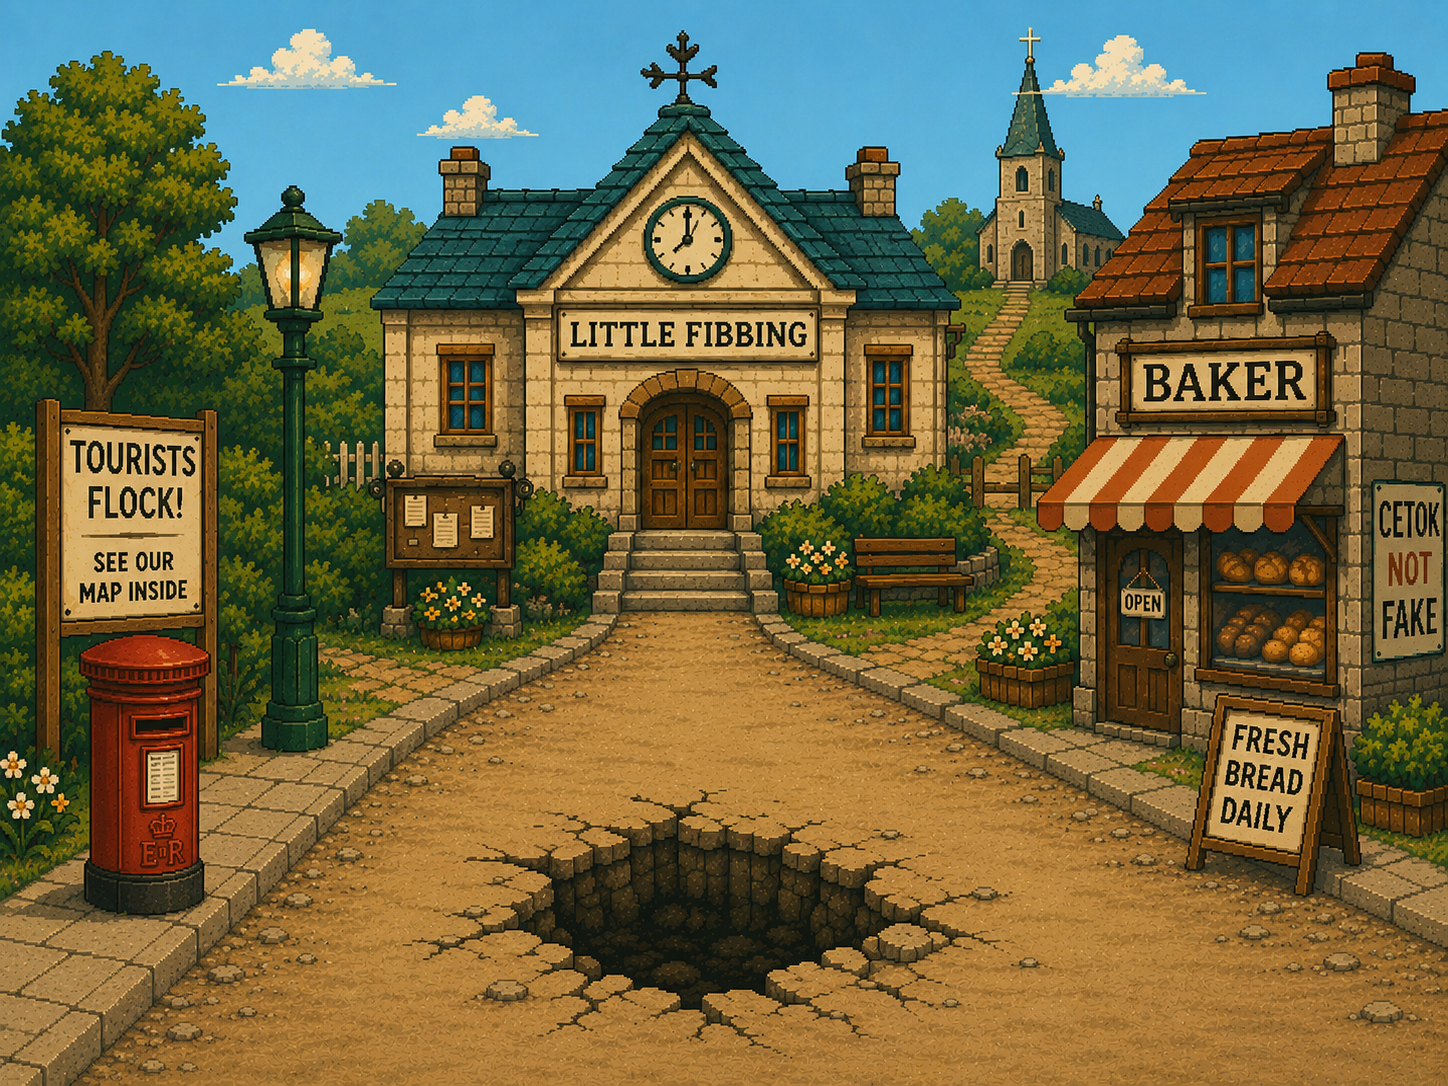
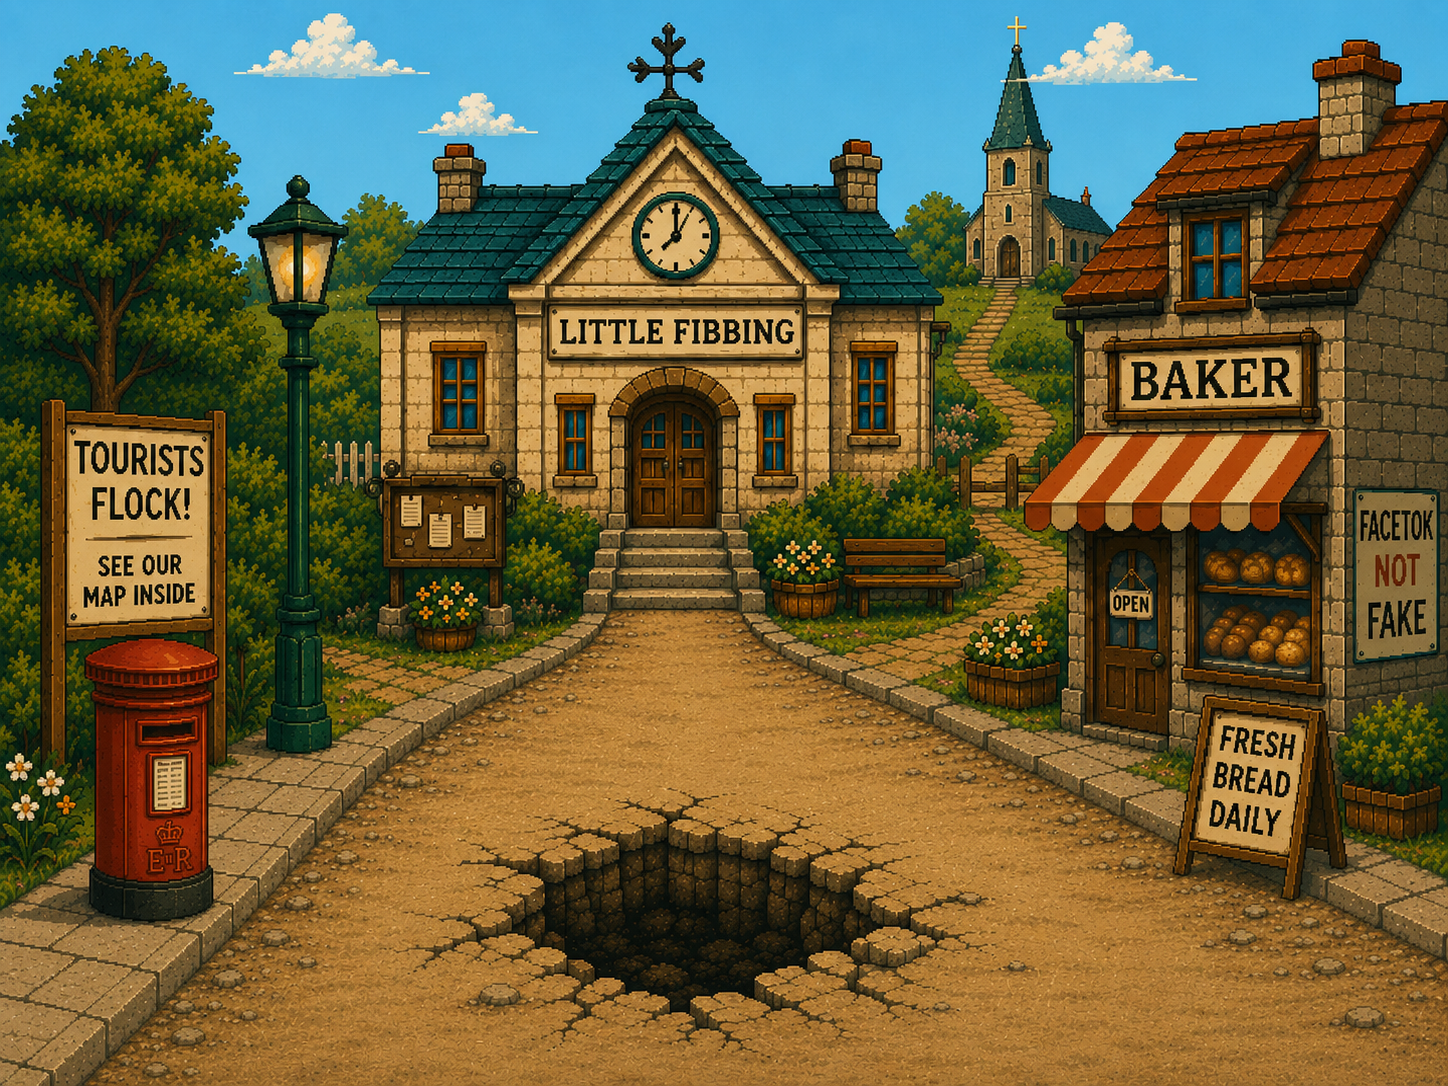
Little Fibbing: fix garbled FACETOK sign + shorten over-long headlines
- Village hub background regenerated with legible "FACETOK / NOT FAKE" signage
  (was garbled "CETOK NOT FAKE", a generation artifact in the build).
- Shorten two runner headlines that broke the running-pace rule (too long /
  subordinate clauses): "School Bus Arrives Safely In China..." ->
  "Pothole Visible From Space, Claims Mayor"; "Mayor Says Tourists Are
  Flocking To See County's Biggest Pothole" -> "Mayor: Tourists Flocking To
  See Pothole". No duplicate headlines.

diff --git a/public/games/little-fibbing/index.html b/public/games/little-fibbing/index.html
@@ -15,7 +15,7 @@
       content="Little Fibbing — The Pothole Incident. A small storybook game about a missing tortoise and the stories a village prefers to believe."
     />
     <title>Little Fibbing — The Pothole Incident</title>
-    <script type="module" crossorigin src="/games/little-fibbing/assets/index-BkFm1IPj.js"></script>
+    <script type="module" crossorigin src="/games/little-fibbing/assets/index-CyJlFtm8.js"></script>
     <link rel="stylesheet" crossorigin href="/games/little-fibbing/assets/index-PtUUXDPX.css">
   </head>
   <body>